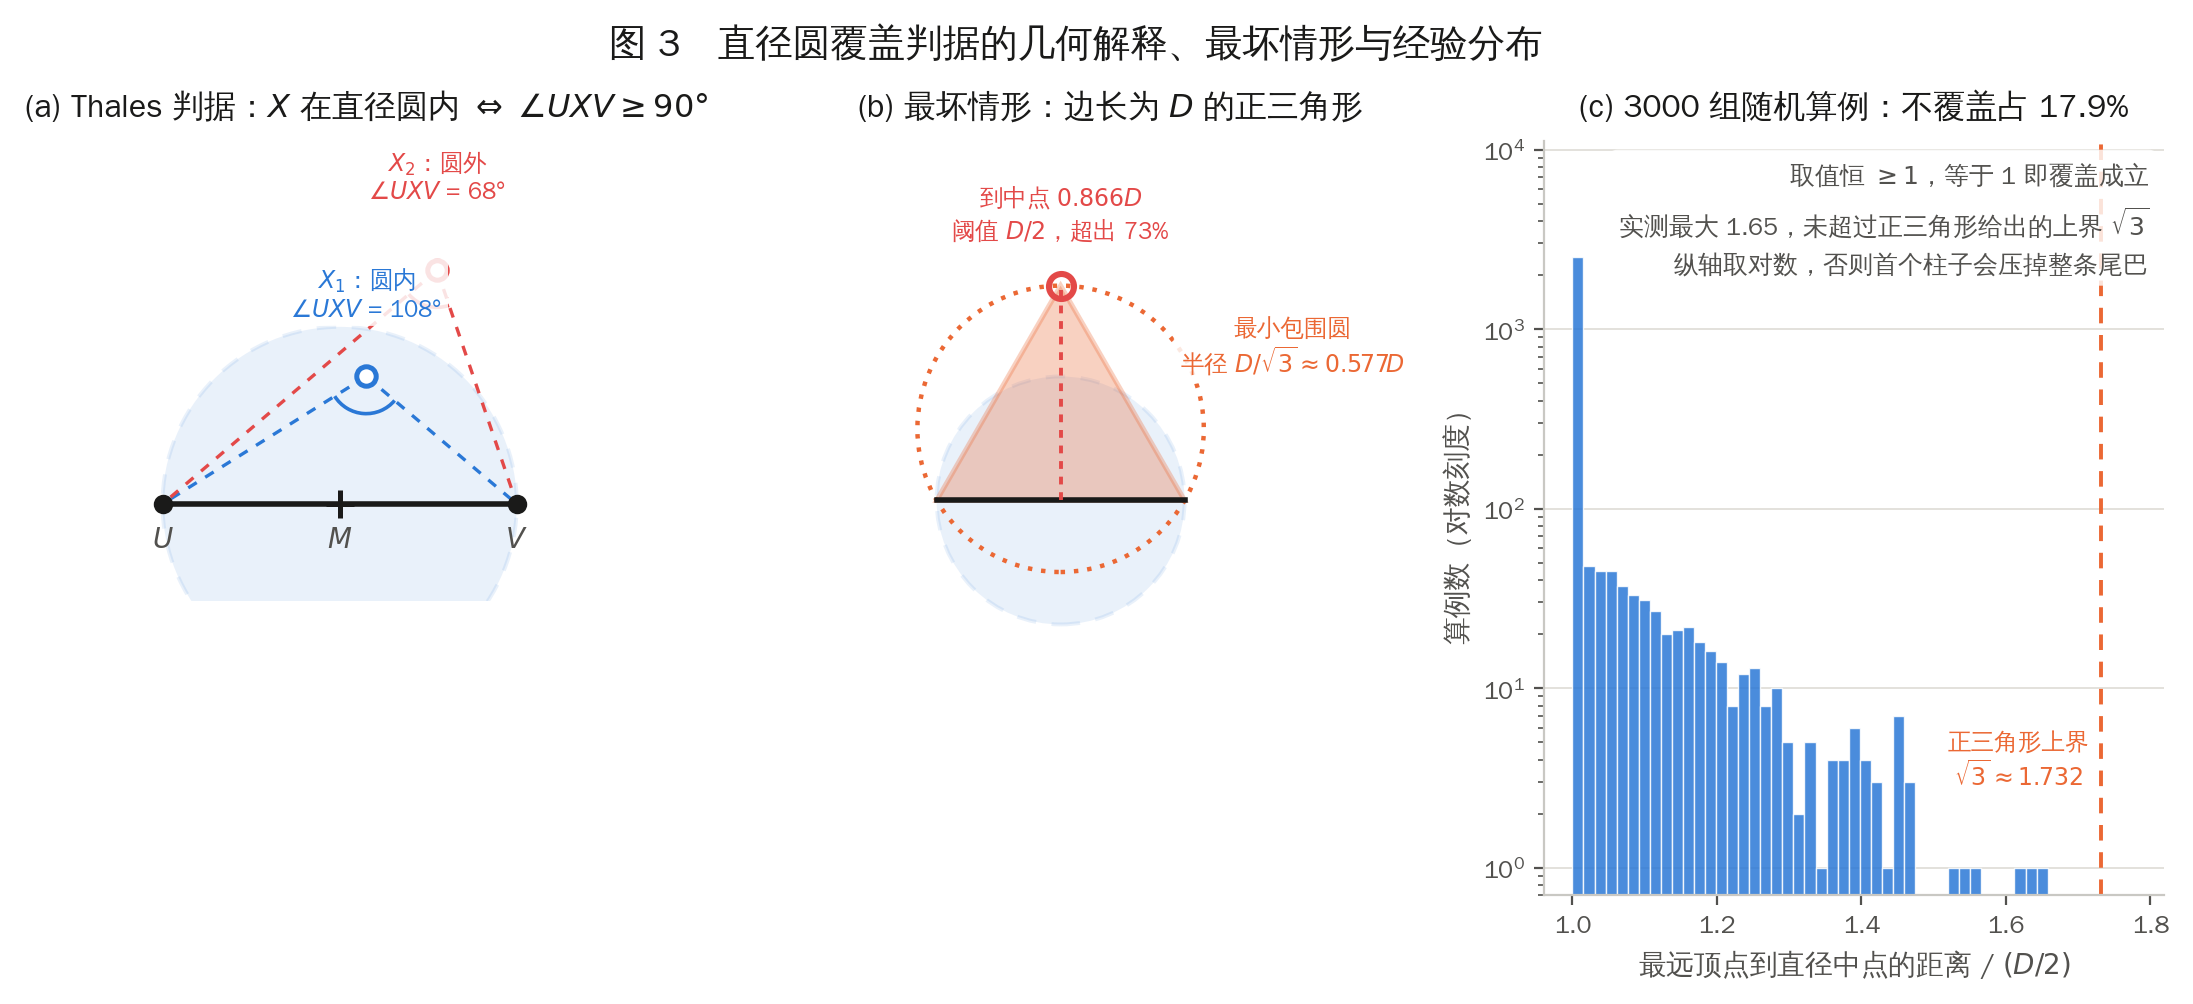
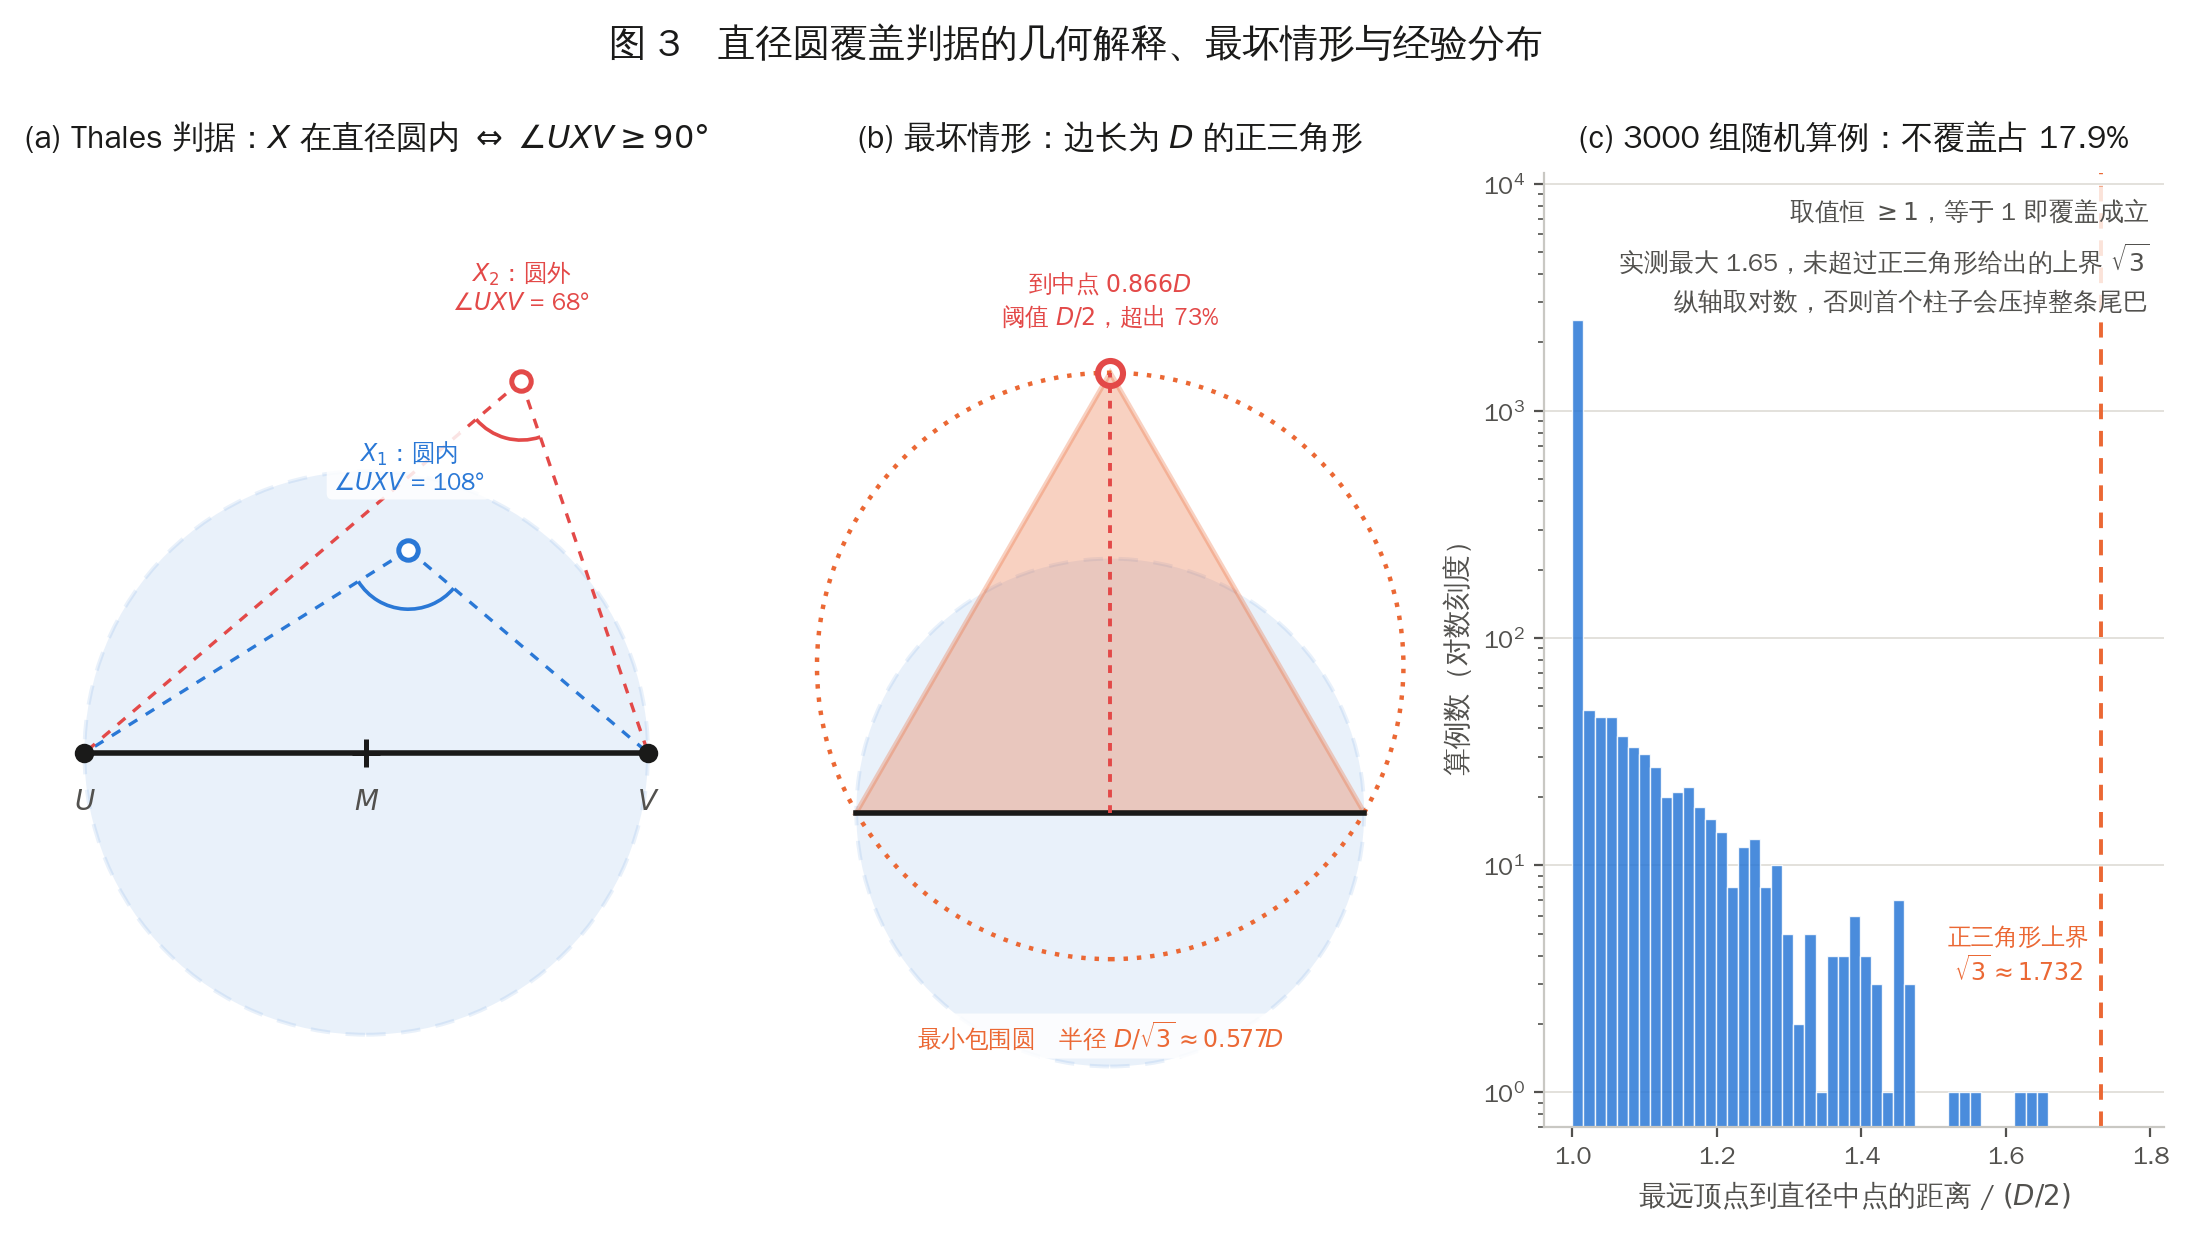
图 3：左侧两个示意图放大到填满各自子图（改用 adjustable='datalim' + 收紧坐标范围）
Claude-Session: https://claude.ai/code/session_01Moa7Uhh3ztkDMtD4XSYxHq

diff --git a/code/figures/图03_覆盖判据与最小包围圆.py b/code/figures/图03_覆盖判据与最小包围圆.py
@@ -41,7 +41,7 @@ def ratios(n=3000, seed=11):
 
 if __name__ == '__main__':
     S.use_style()
-    fig, axes = plt.subplots(1, 3, figsize=(13.6, 4.9))
+    fig, axes = plt.subplots(1, 3, figsize=(13.6, 6.2))
 
     # ---- (a) Thales 等价形式 ----
     ax = axes[0]
@@ -63,7 +63,8 @@ if __name__ == '__main__':
     ax.plot([0],[0],'+',ms=10,mew=1.8,color=C['ink'],zorder=7)
     ax.text(U[0],-.13,'$U$',ha='center',va='top',color=C['ink2'],fontsize=10)
     ax.text(V[0],-.13,'$V$',ha='center',va='top',color=C['ink2'],fontsize=10)
-    ax.set_xlim(-1.6,1.9); ax.set_ylim(-.55,2.05); ax.set_aspect('equal'); ax.set_anchor('N')
+    ax.set_aspect('equal', adjustable='datalim')
+    ax.set_xlim(-1.10, 1.10); ax.set_ylim(-1.12, 1.85)
     ax.set_xticks([]); ax.set_yticks([])
     for sp in ('top','right','bottom','left'): ax.spines[sp].set_visible(False)
     ax.set_title('(a) Thales 判据：$X$ 在直径圆内 $\\Leftrightarrow$ $\\angle UXV\\geq 90°$', pad=9)
@@ -79,8 +80,9 @@ if __name__ == '__main__':
     ax.plot([0,0],[0,math.sqrt(3)/2], ls=(0,(2,2)), color=C['red'], lw=1.4, zorder=6)
     ax.plot([T[2][0]],[T[2][1]], 'o', ms=9, mfc='none', mec=C['red'], mew=2.2, zorder=8)
     S.tag(ax, T[2], '到中点 $0.866D$\n阈值 $D/2$，超出 73%', dy=26)
-    S.tag(ax, (0.62, 0.62), '最小包围圆\n半径 $D/\\sqrt{3}\\approx0.577D$', color=C['orange'], dx=28, dy=0)
-    ax.set_xlim(-1.05,1.45); ax.set_ylim(-.75,1.45); ax.set_aspect('equal'); ax.set_anchor('N')
+    S.tag(ax, (-.02, -.44), '最小包围圆　半径 $D/\\sqrt{3}\\approx0.577D$', color=C['orange'], dx=0, dy=0)
+    ax.set_aspect('equal', adjustable='datalim')
+    ax.set_xlim(-.70, .70); ax.set_ylim(-.62, 1.26)
     ax.set_xticks([]); ax.set_yticks([])
     for sp in ('top','right','bottom','left'): ax.spines[sp].set_visible(False)
     ax.set_title('(b) 最坏情形：边长为 $D$ 的正三角形', pad=9)
